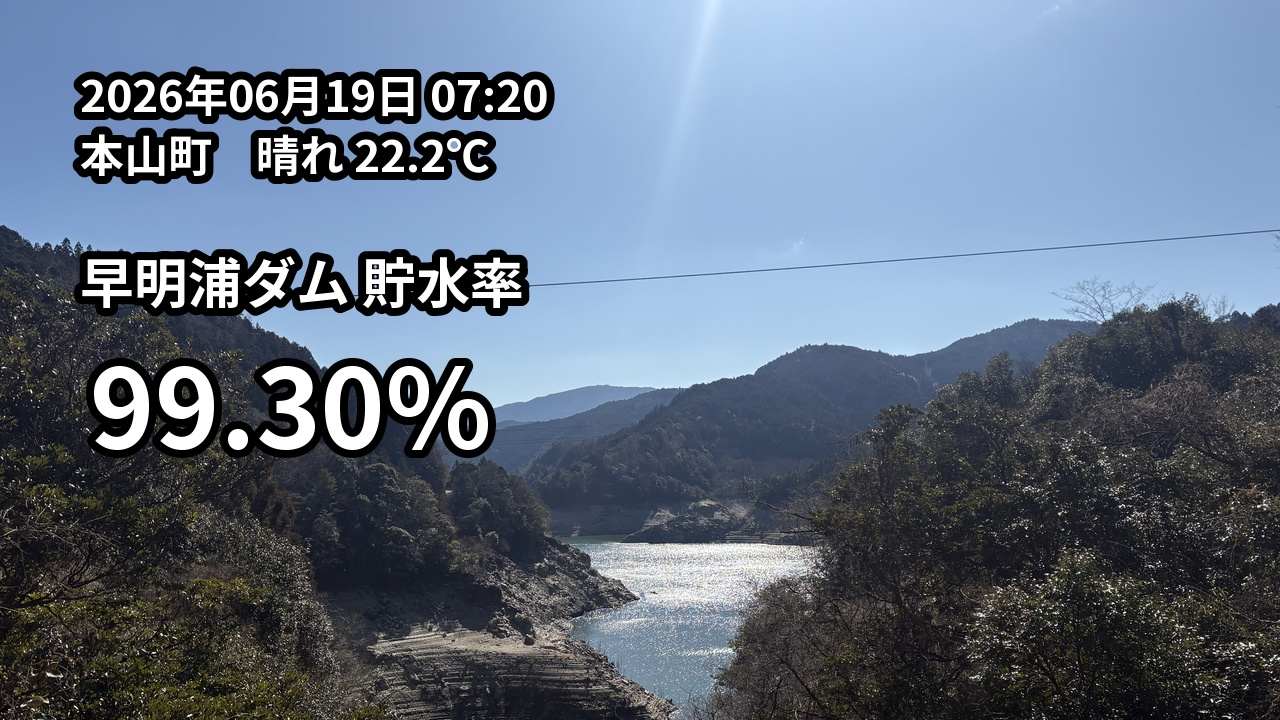
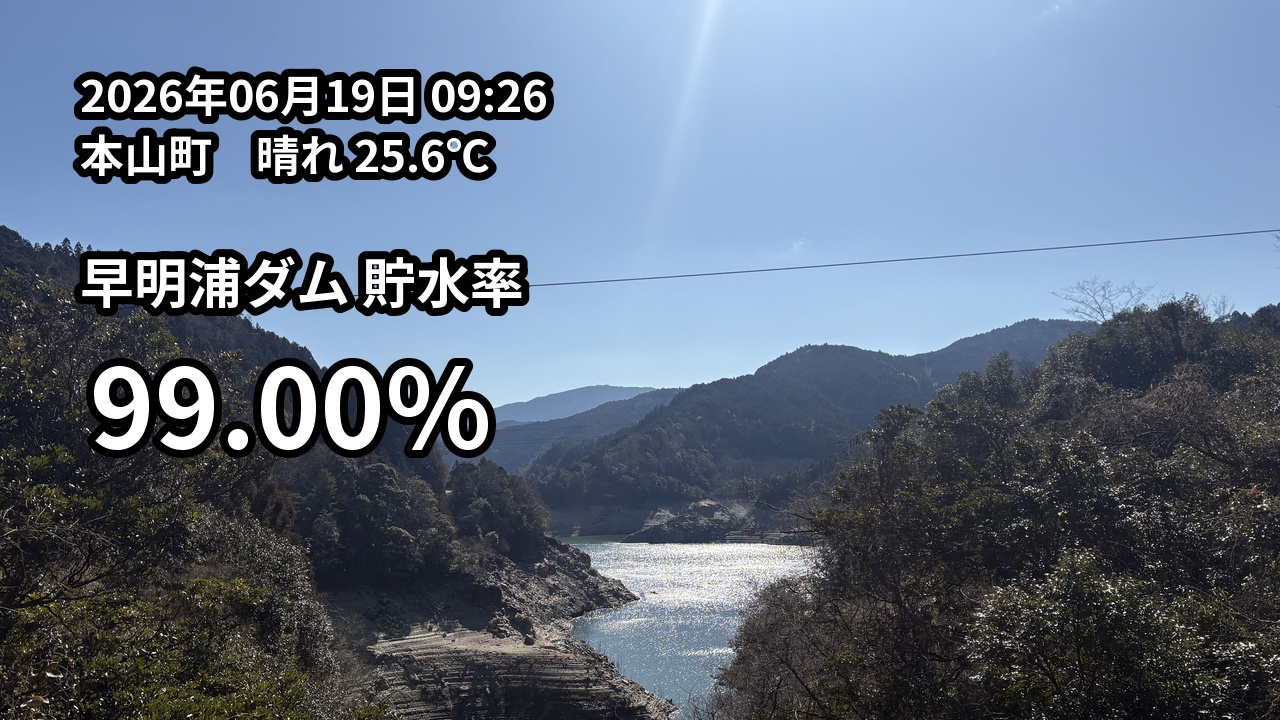
Update daily image

diff --git a/index.html b/index.html
@@ -10,6 +10,6 @@
   </style>
 </head>
 <body>
-  <img src="result.jpg?v=202606190720" alt="早明浦ダム 貯水率" />
+  <img src="result.jpg?v=202606190927" alt="早明浦ダム 貯水率" />
 </body>
 </html>
